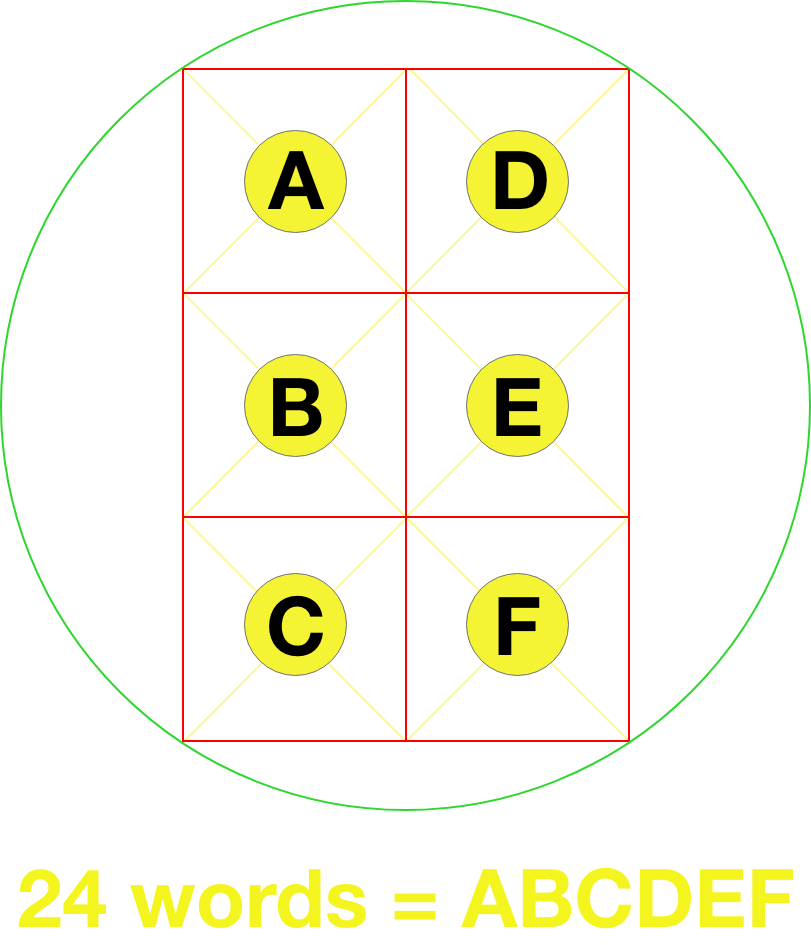
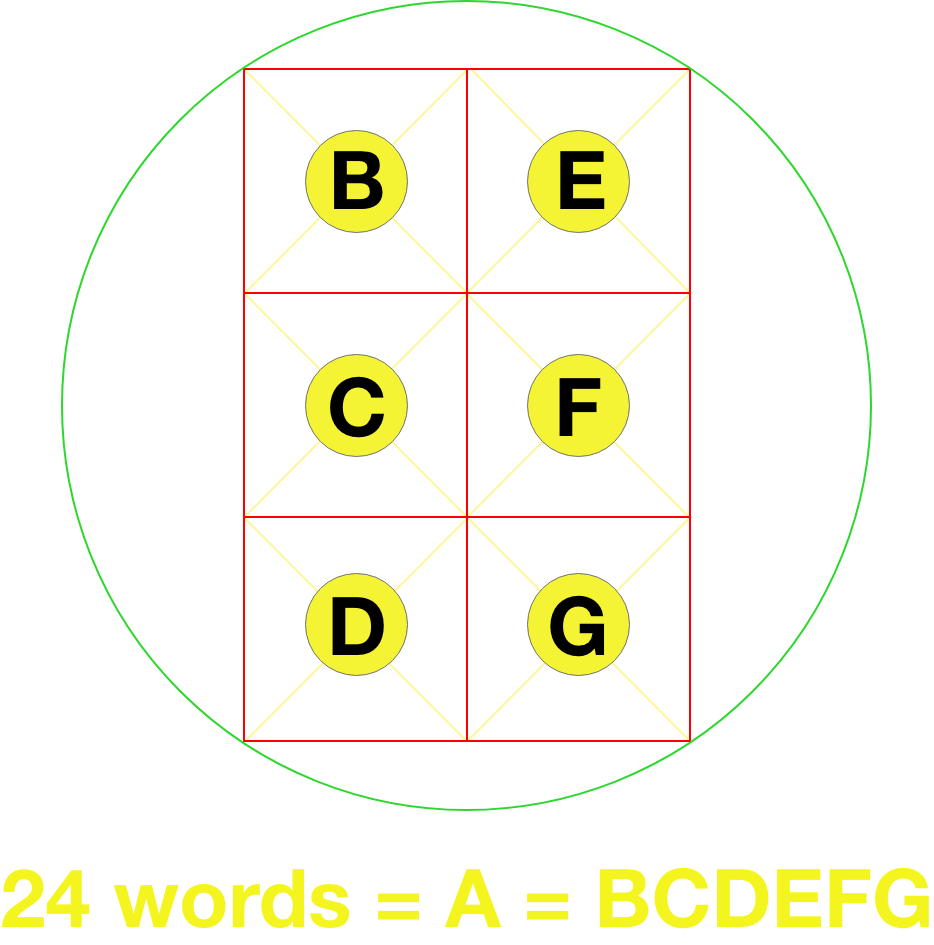
images updated with correct lullian meaning

diff --git a/_posts/2021-10-23-Hardware-wallet-mnemonic-seed-phrases.md b/_posts/2021-10-23-Hardware-wallet-mnemonic-seed-phrases.md
@@ -49,13 +49,14 @@ We will use only the 'classical menemotechnique' at the time of __compression__.
 Let's see the __'mental code'__ we can create to store the 24 seed words autogenerated by a standard physical wallet.
 
 ```javascript
-const My24SeedPhrase = [
-    {a : [boss, rural, month, arm]},
-    {b : [exit, elegant, eight, grain]},
-    {c : [palace, biology, pistol, control]},
-    {d : [outside, album, slab, top]},
-    {e : [boil, absorb, tree, mean ]},
-    {f : [street, giggle, head, frozen]}
+// My 24 Seed Phrase = A
+const A =  [
+    {b : [boss, rural, month, arm]},
+    {c : [exit, elegant, eight, grain]},
+    {d : [palace, biology, pistol, control]},
+    {e : [outside, album, slab, top]},
+    {f : [boil, absorb, tree, mean ]},
+    {g : [street, giggle, head, frozen]}
 ]
 ```
 
